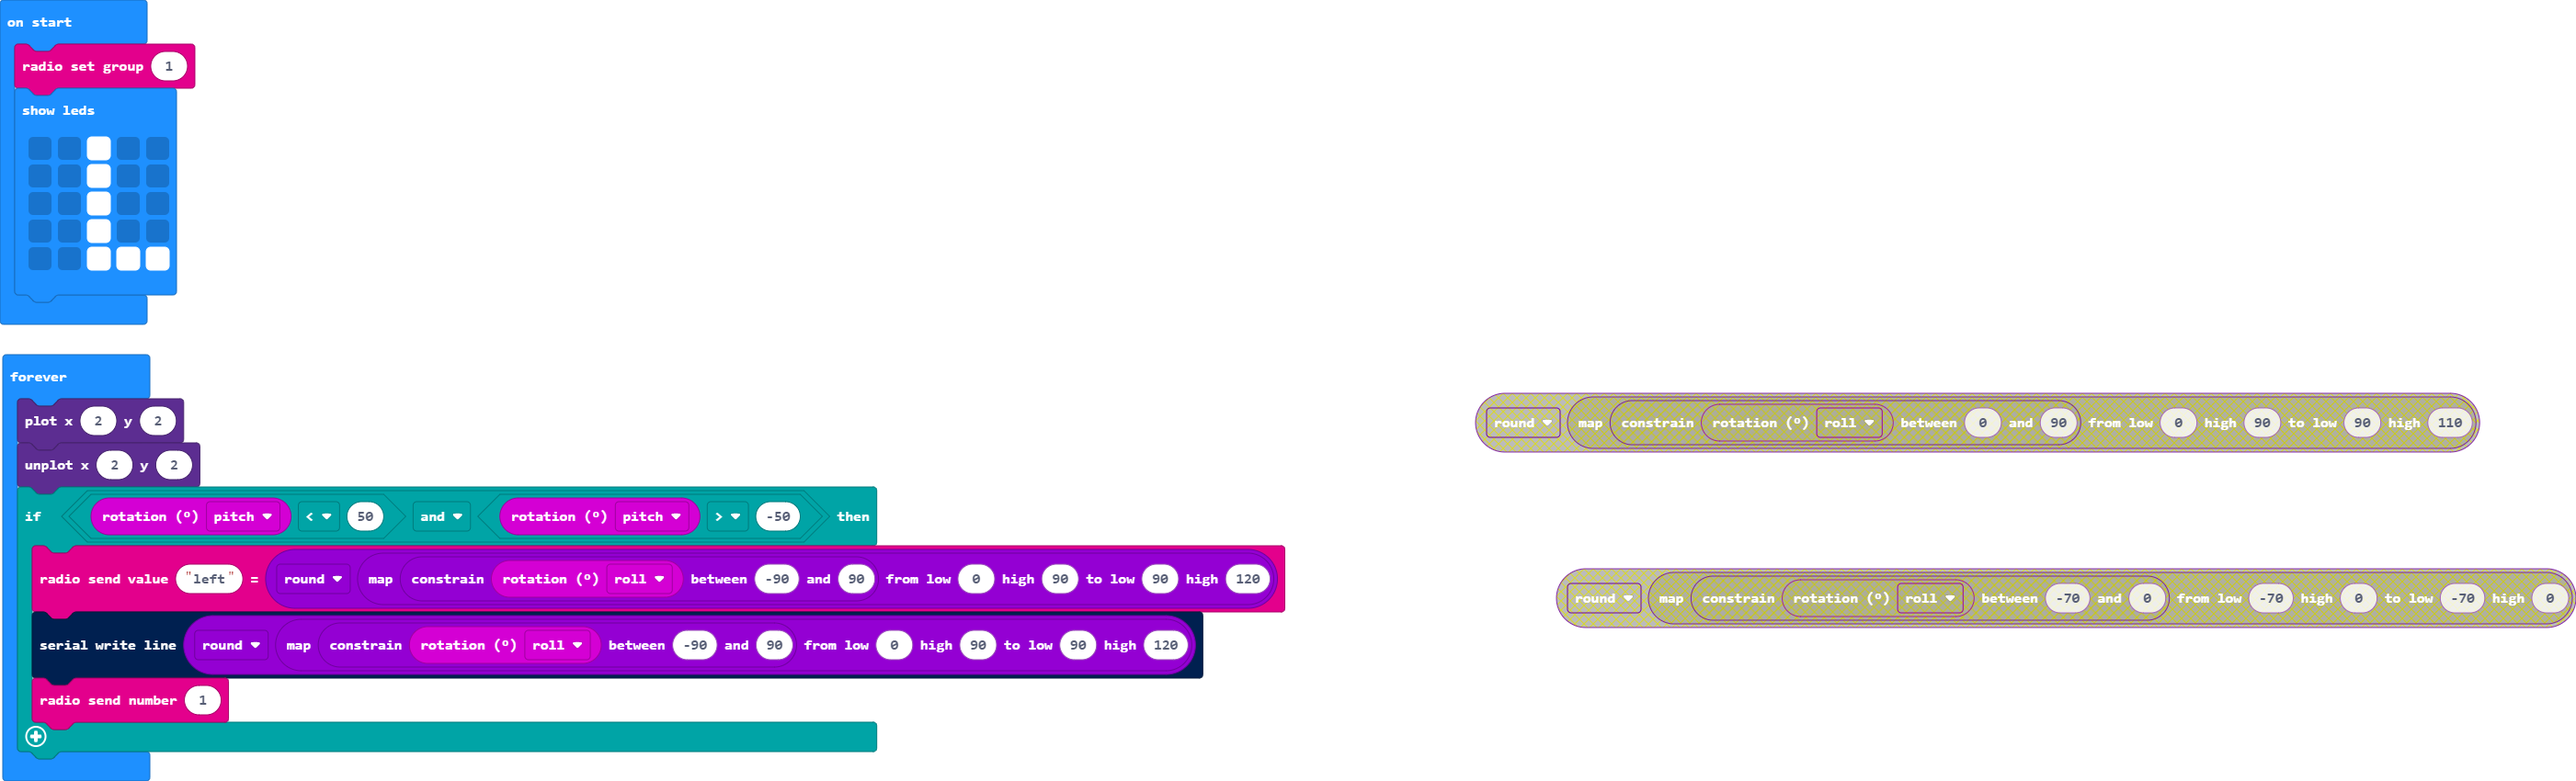
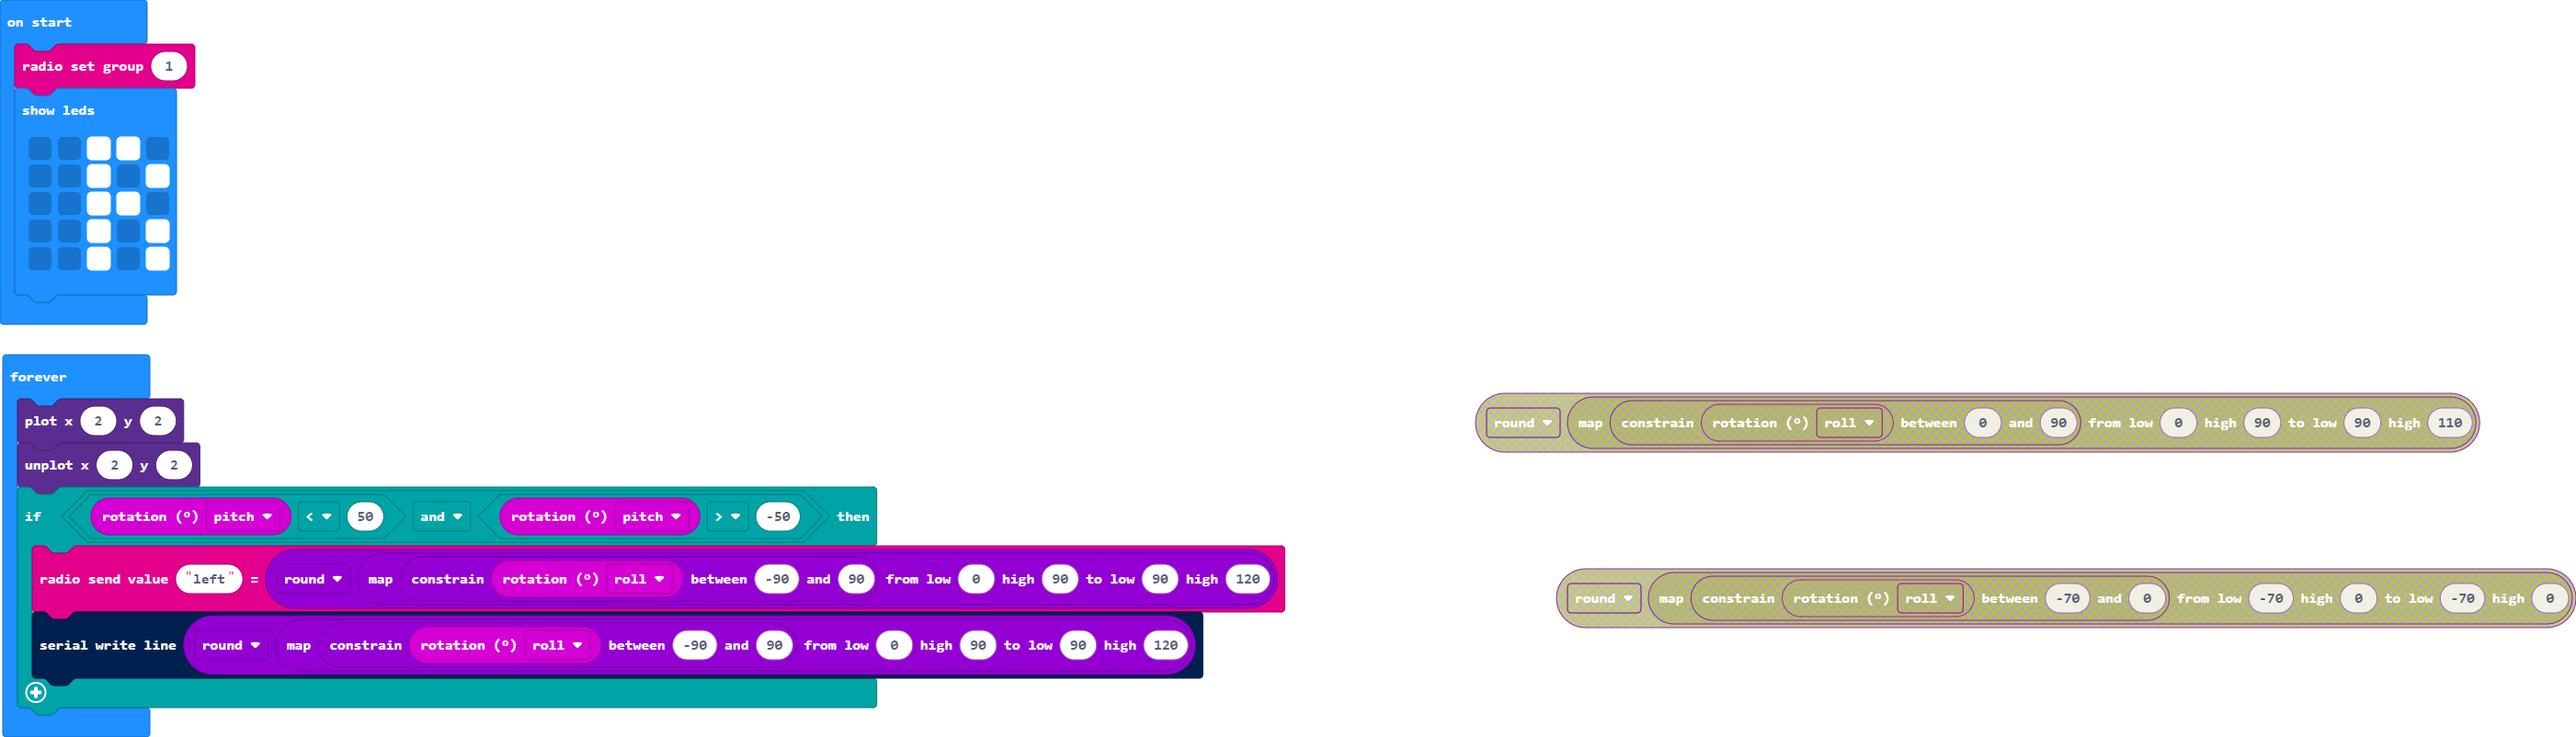
Update main.blocks, main.ts

Changed region(s): [[0.0, 0.0312, 0.4968, 0.9663], [0.5899, 0.717, 1.0, 0.8728], [0.5589, 0.4988, 0.9625, 0.6234]]

diff --git a/main.ts b/main.ts
@@ -1,10 +1,10 @@
 radio.setGroup(1)
 basic.showLeds(`
-    . . # . .
-    . . # . .
-    . . # . .
-    . . # . .
-    . . # # #
+    . . # # .
+    . . # . #
+    . . # # .
+    . . # . #
+    . . # . #
     `)
 basic.forever(function () {
     led.plot(2, 2)
@@ -12,6 +12,5 @@ basic.forever(function () {
     if (input.rotation(Rotation.Pitch) < 50 && input.rotation(Rotation.Pitch) > -50) {
         radio.sendValue("left", Math.round(Math.map(Math.constrain(input.rotation(Rotation.Roll), -90, 90), 0, 90, 90, 120)))
         serial.writeLine("" + (Math.round(Math.map(Math.constrain(input.rotation(Rotation.Roll), -90, 90), 0, 90, 90, 120))))
-        radio.sendNumber(1)
     }
 })
